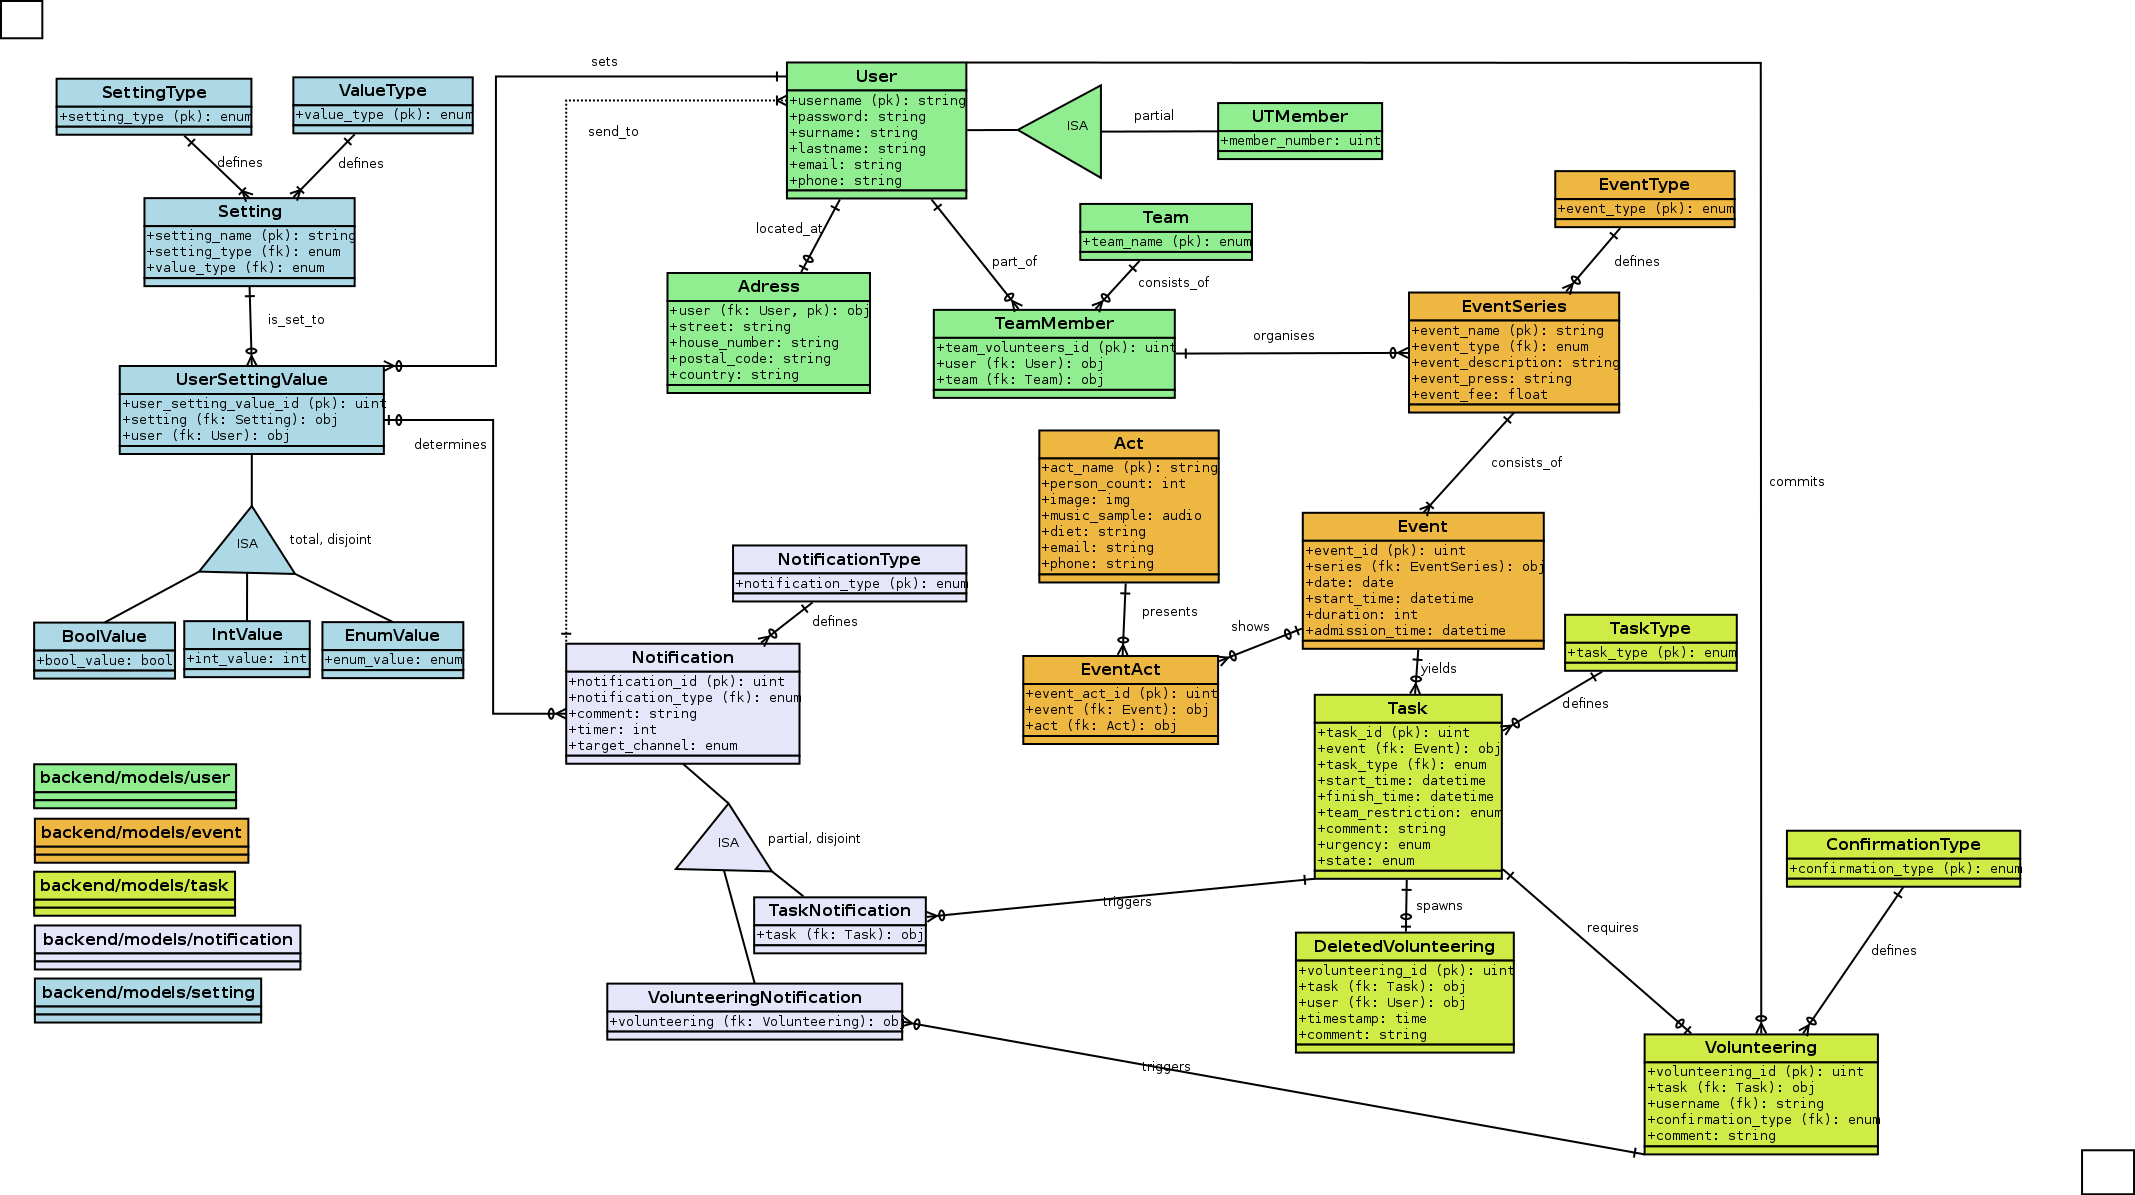
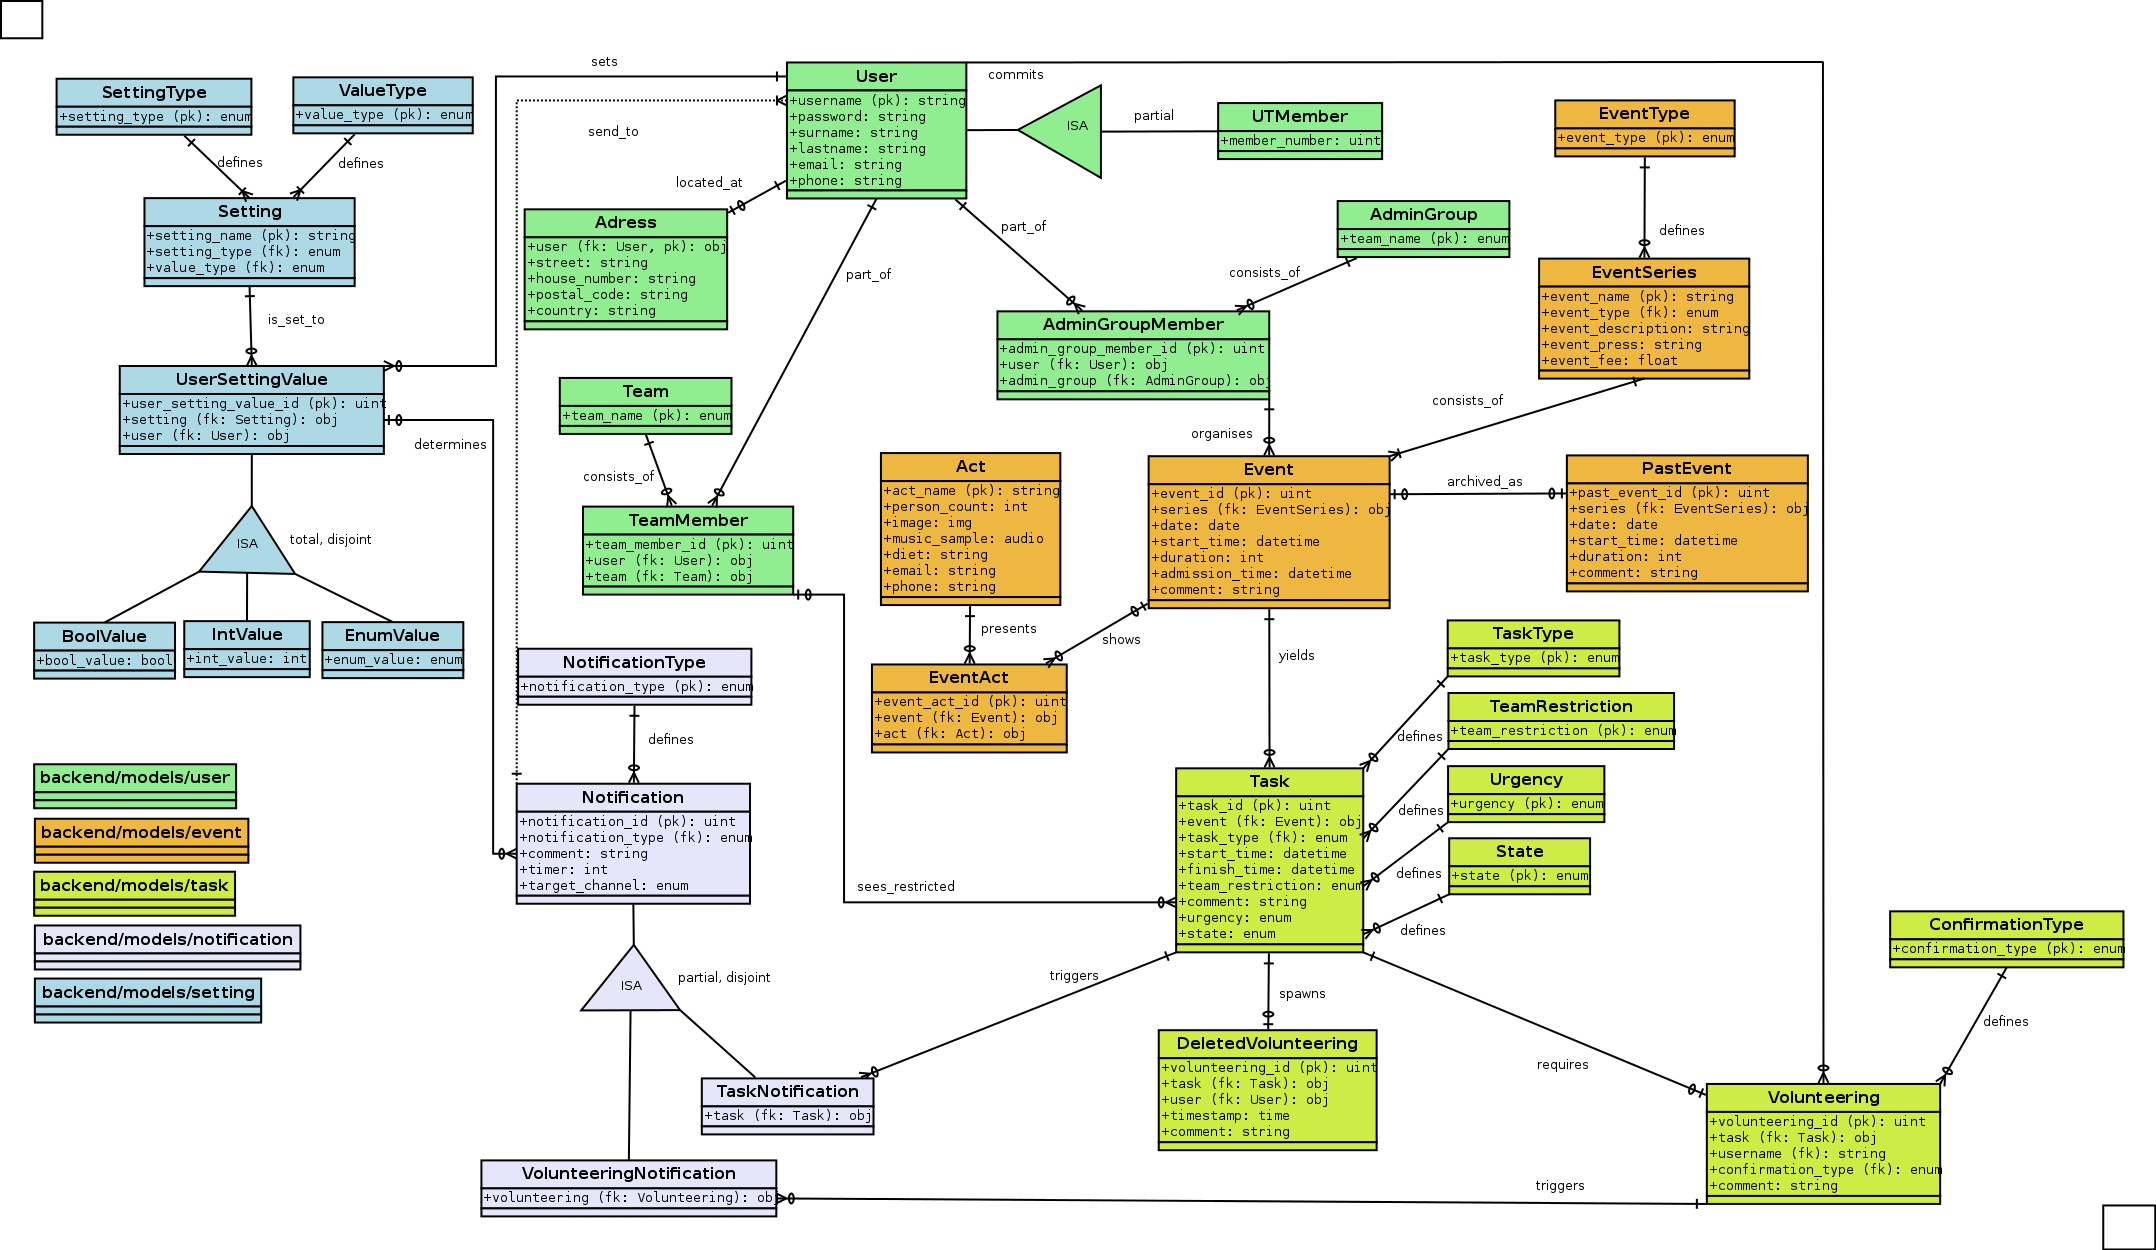
[#30] update model, readme and db diagram

diff --git a/app/backend/migrations/0001_initial.py b/app/backend/migrations/0001_initial.py
@@ -1,4 +1,4 @@
-# Generated by Django 4.2 on 2024-08-01 12:20
+# Generated by Django 4.2 on 2024-08-01 13:30
 
 from django.conf import settings
 import django.contrib.auth.models
@@ -41,7 +41,7 @@ class Migration(migrations.Migration):
         migrations.CreateModel(
             name='Act',
             fields=[
-                ('act_name', models.CharField(max_length=40, primary_key=True, serialize=False, verbose_name='Aktname')),
+                ('act_name', models.CharField(max_length=40, primary_key=True, serialize=False, verbose_name='Name')),
                 ('person_count', models.PositiveIntegerField(blank=True, null=True, verbose_name='Personenzahl')),
                 ('act_image', models.ImageField(blank=True, null=True, upload_to='', verbose_name='Bild')),
                 ('music_sample', models.FileField(blank=True, null=True, upload_to='', verbose_name='Musikbeispiel')),
@@ -136,6 +136,7 @@ class Migration(migrations.Migration):
                 ('past_event_id', models.BigAutoField(primary_key=True, serialize=False)),
                 ('date', models.DateField(verbose_name='Datum')),
                 ('start_time', models.TimeField(verbose_name='Veranstaltungsbeginn')),
+                ('duration', models.PositiveIntegerField(blank=True, help_text='Dauer in Minuten', null=True, verbose_name='Veranstaltungsdauer')),
                 ('comment', models.TextField(blank=True, max_length=800, verbose_name='Kommentar')),
             ],
             options={

diff --git a/app/backend/models/event/past_event.py b/app/backend/models/event/past_event.py
@@ -22,6 +22,12 @@ class PastEvent(models.Model):
     start_time = models.TimeField(
         "Veranstaltungsbeginn",
     )
+    duration = models.PositiveIntegerField(
+        "Veranstaltungsdauer",
+        null=True,
+        blank=True,
+        help_text="Dauer in Minuten"
+    )    
     comment = models.TextField(
         "Kommentar",
         max_length=800,

diff --git a/app/events/celery_tasks.py b/app/events/celery_tasks.py
@@ -24,6 +24,7 @@ def delete_past_events():
             series = event.series,
             date = event.date,
             start_time = event.start_time,
+            duration = event.duration,
             comment = event.comment,
         )
         past_event.save()

diff --git a/app/backend/models/event/act.py b/app/backend/models/event/act.py
@@ -2,7 +2,7 @@ from django.db import models
 
 class Act(models.Model):
     act_name = models.CharField(
-        "Aktname",
+        "Name",
         max_length=40,
         primary_key=True
     )

diff --git a/app/backend/admin.py b/app/backend/admin.py
@@ -95,6 +95,7 @@ class PastEventAdmin(admin.ModelAdmin):
         'series',
         'date',
         'start_time',
+        'duration',
     ]
 
 class EventSeriesAdmin(admin.ModelAdmin):

diff --git a/README.md b/README.md
@@ -117,7 +117,8 @@ event-management/
 │   │   │   ├── events_calendar
 │   │   │   │   ├── base.html
 │   │   │   │   ├── calendar.html
-│   │   │   │   ├── event_day.html
+│   │   │   │   ├── event.html
+│   │   │   │   ├── past_event.html
 │   │   │   │   └── task.html
 │   │   │   └── registration
 │   │   │       └── login.html
